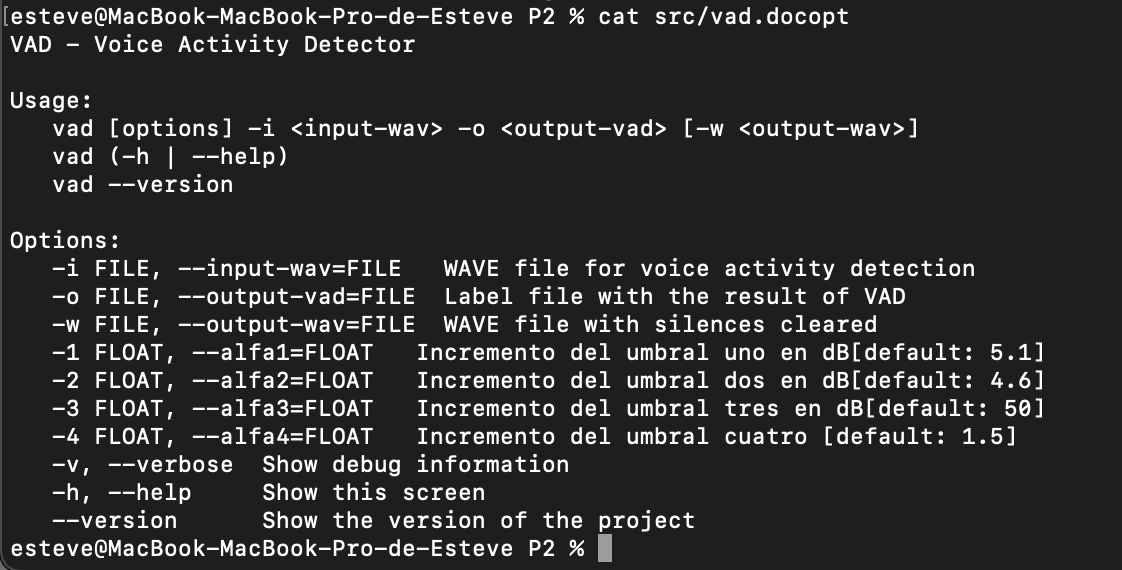
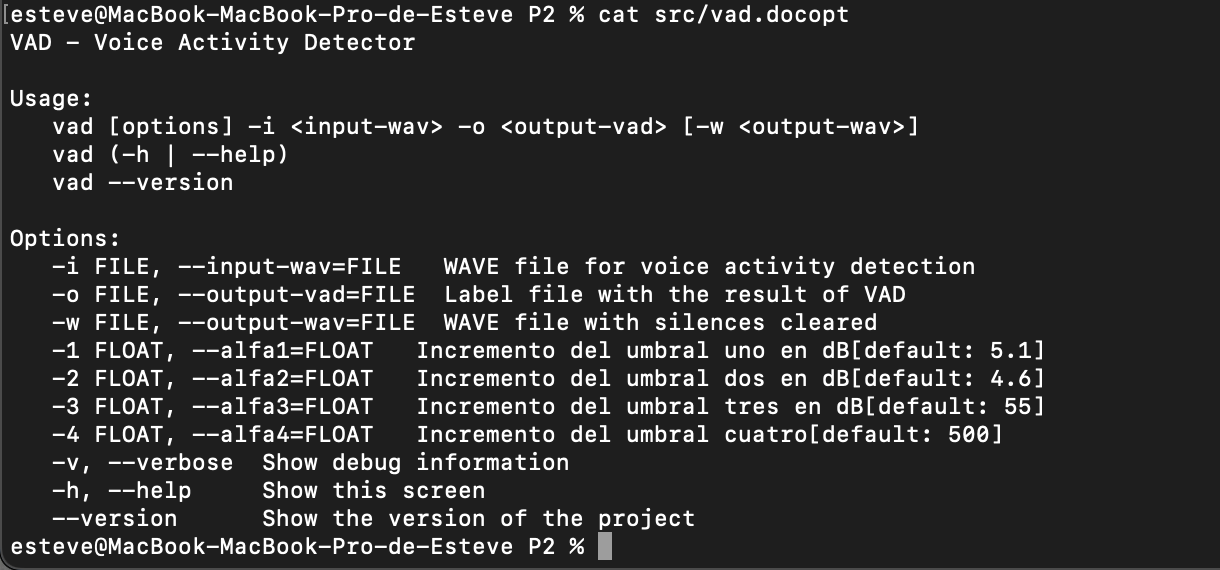
31.10.22 v2

Changed region(s): [[0.0, 0.3877, 1.0, 1.0], [0.0, 0.0, 0.7487, 0.0895], [0.0, 0.1491, 0.8422, 0.3579]]

diff --git a/src/vad_docopt.h b/src/vad_docopt.h
@@ -42,8 +42,8 @@ const char help_message[] =
 "   -w FILE, --output-wav=FILE  WAVE file with silences cleared\n"
 "   -1 FLOAT, --alfa1=FLOAT   Incremento del umbral uno en dB[default: 5.1]\n"
 "   -2 FLOAT, --alfa2=FLOAT   Incremento del umbral dos en dB[default: 4.6]\n"
-"   -3 FLOAT, --alfa3=FLOAT   Incremento del umbral tres en dB[default: 50]\n"
-"   -4 FLOAT, --alfa4=FLOAT   Incremento del umbral cuatro [default: 1.5]\n"
+"   -3 FLOAT, --alfa3=FLOAT   Incremento del umbral tres en dB[default: 55]\n"
+"   -4 FLOAT, --alfa4=FLOAT   Incremento del umbral cuatro[default: 500]\n"
 "   -v, --verbose  Show debug information\n"
 "   -h, --help     Show this screen\n"
 "   --version      Show the version of the project\n"
@@ -319,7 +319,7 @@ int elems_to_args(Elements *elements, DocoptArgs *args, bool help,
 
 DocoptArgs docopt(int argc, char *argv[], bool help, const char *version) {
     DocoptArgs args = {
-        0, 0, 0, (char*) "5.1", (char*) "4.6", (char*) "50", (char*) "1.5",
+        0, 0, 0, (char*) "5.1", (char*) "4.6", (char*) "55", (char*) "500",
         NULL, NULL, NULL,
         usage_pattern, help_message
     };
